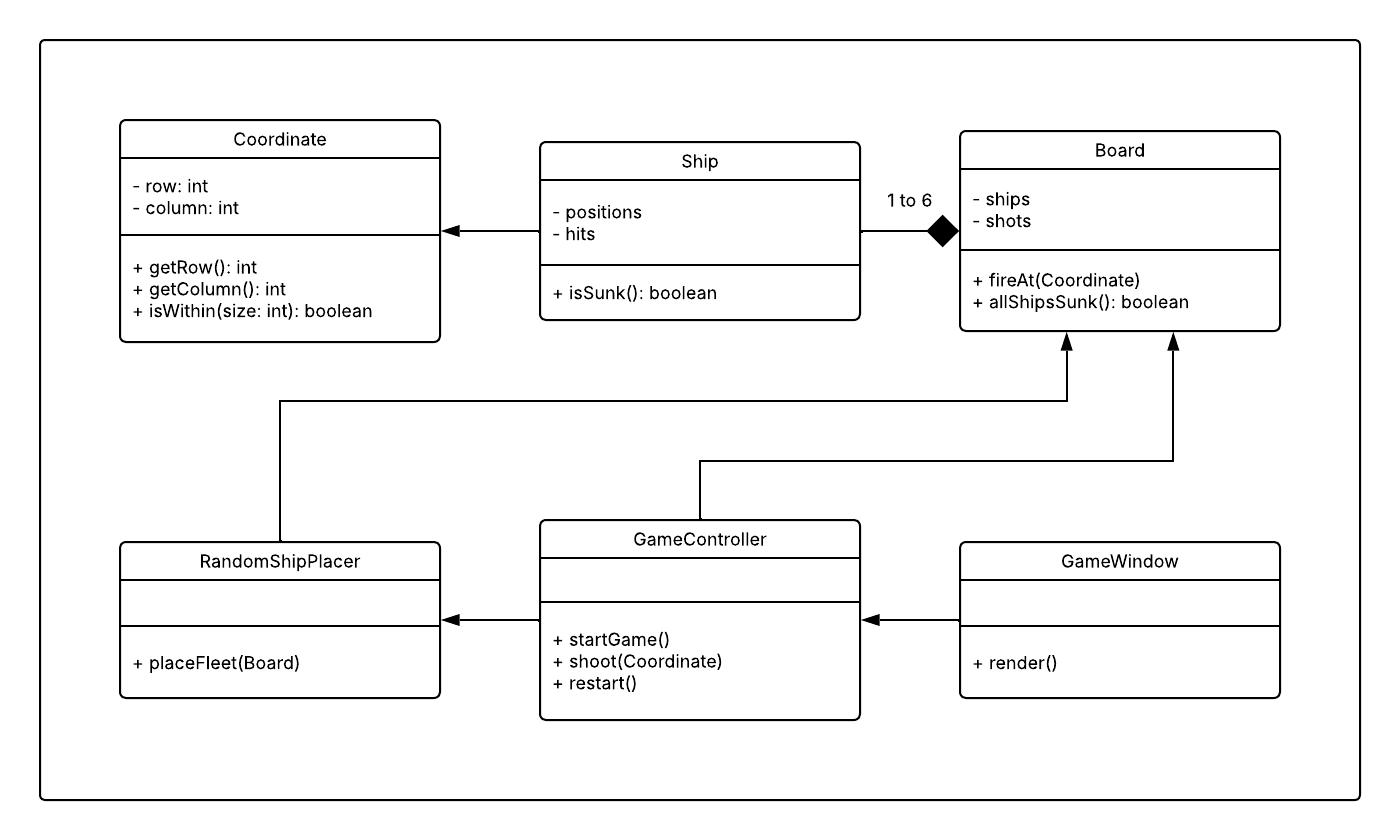
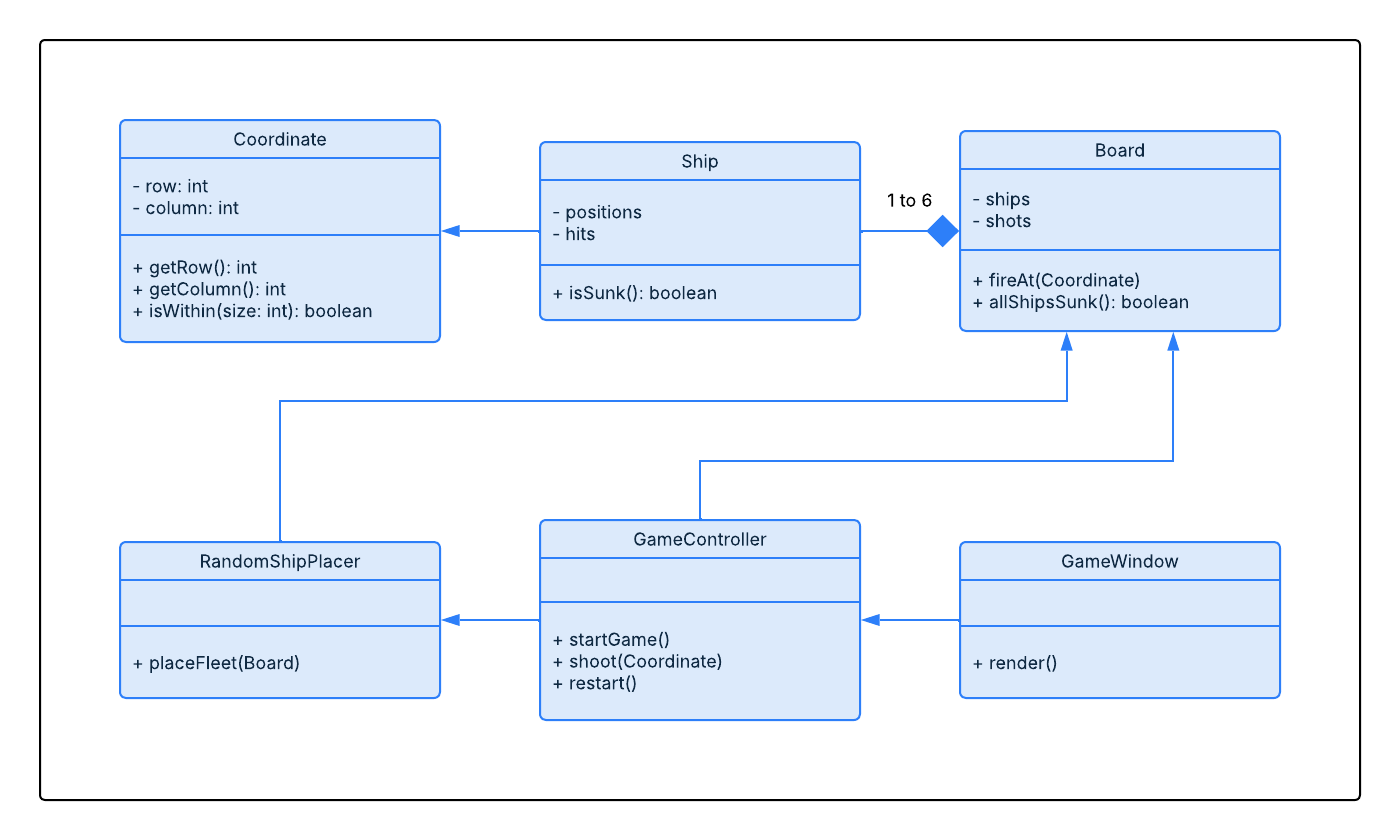
Give the four diagrams one consistent style
The diagrams were drawn in two styles: three in plain black and white and the
sequence diagram in the blue its generator always produces. Black and white is
the more conventional look for UML, but the sequence generator cannot be forced
into it, so the other three were redrawn in the same blue. One consistent set
matters more than which style it is; neither the brief nor the slides mention
colour, while the slides do ask for a consistent document.

Colour now carries meaning rather than decoration. Solid blue marks what this
project wrote. Dashed grey marks what lies outside it: Swing's JFrame in Figure
D, and in Figure B the use case the player never performs. The actor is filled
so it reads as different in kind from a use case. Nothing depends on colour
alone, so every figure still reads printed in black and white.

The earlier black and white exports are kept under docs/diagrams/bw in case the
sequence diagram is ever redrawn by hand, and the README now records which four
figures go into the report and why each is required.

diff --git a/docs/diagrams/README.md b/docs/diagrams/README.md
@@ -1,21 +1,44 @@
 # UML diagrams
 
-Drawn in Lucidchart and exported as PNG for the Word report. The Lucid documents are
+Drawn in Lucidchart and exported as PNG for the Word report. The Lucid documents stay
 editable, so a diagram can be corrected and re-exported without redrawing it.
 
-| File | Report section | Lucid document |
-| --- | --- | --- |
-| `figure-A-initial-class-model.png` | 2.5 | https://lucid.app/lucidchart/6837bcef-e590-4e2d-acd8-8937afd4d4c9/edit |
-| `figure-B-use-case-model.png` | 2.3 | https://lucid.app/lucidchart/bb3d8fd1-b413-41e9-b0d6-096b11323284/edit |
-| `figure-C-sequence-model.png` | 2.4 | https://lucid.app/lucidchart/8172fdcb-e94a-493b-b216-d4faf446aadf/edit |
-| `figure-D-final-class-model.png` | 4.3 | https://lucid.app/lucidchart/563bbac2-cc38-437f-8818-1b7b698a7ca7/edit |
+| File | Report section | What it shows | Lucid document |
+| --- | --- | --- | --- |
+| `figure-A-initial-class-model.png` | 2.5 | The class model as planned, six classes | https://lucid.app/lucidchart/dee6da29-efbc-431a-8f43-249749a5337b/edit |
+| `figure-B-use-case-model.png` | 2.3 | One actor, five use cases, one included | https://lucid.app/lucidchart/b4dc3db4-48a8-4676-85bd-3dfdde75aaff/edit |
+| `figure-C-sequence-model.png` | 2.4 | One shot, with both alternatives | https://lucid.app/lucidchart/8172fdcb-e94a-493b-b216-d4faf446aadf/edit |
+| `figure-D-final-class-model.png` | 4.3 | The implemented model, ten classes | https://lucid.app/lucidchart/16ced3e3-aa11-4f73-b39d-c82c6ce21f1d/edit |
+
+All four figures go into the report, and all four are required: the brief asks for
+use case, sequence and class models in the planning section and a class model of the
+final code in the implementation section.
 
 Figures A, B and C describe the design **as it was planned**, which is what the
-planning section of the report requires. They deliberately do not match the finished
-code; the differences are listed in report section 4.4. Figure D is the final model,
-taken from the code as it now stands.
+planning section requires. They deliberately do not match the finished code; the
+differences are listed in report section 4.4. Figure D is the final model, taken from
+the code as it now stands.
 
-Two earlier documents were created by importing Mermaid source. Lucid stores that as
-a code block rather than as shapes, so it cannot be exported as an image. They were
-replaced by the documents above and can be deleted:
-`142dec6e-4743-4e0a-a070-91e6f7433d45` and `b67e4558-3b55-401c-b990-f2772944e991`.
+## On colour
+
+Neither the brief nor the lecture slides say anything about colour, so it carries no
+marks on its own. What does matter is that the figures look like one set: the Week 5
+slides ask for one font throughout and a caption on every figure, and a report whose
+diagrams are styled differently from each other reads as careless.
+
+All four therefore use the same blue. This was not the first choice. Three of them
+were drawn in plain black and white first, which is the more conventional look for
+UML, but the sequence diagram is generated by a tool that always draws its frames in
+blue and cannot be forced to match. Making the other three blue was the only way to
+get one consistent set, so that is what was done. The black and white versions are
+kept in `bw/` in case the sequence diagram is ever redrawn by hand.
+
+Colour is used to mean something rather than to decorate:
+
+- Solid blue: classes and use cases that this project wrote.
+- Dashed grey: things outside the project. `JFrame` in Figure D is part of Swing, and
+  "Place the fleet at random" in Figure B is a use case the player never performs.
+- Dark blue fill: the actor, so it reads as different in kind from a use case.
+
+Nothing depends on colour alone. Every figure still reads correctly printed in black
+and white, because the dashed outlines and the arrowheads carry the same information.

diff --git a/docs/DEVELOPMENT-LOG.md b/docs/DEVELOPMENT-LOG.md
@@ -111,3 +111,17 @@ recorded in `docs/diagrams/README.md` so they can be deleted.
 
 Report sections 2.3, 2.4, 2.5 and 4.3 now carry the figures and a short commentary
 each, replacing the pending notices.
+
+## 2026-11-18 — Diagrams restyled for consistency
+The four diagrams were drawn in two different styles: three in plain black and white
+and the sequence diagram in the blue its generator always produces. The sequence
+generator cannot be forced into black and white, so the other three were redrawn in
+the same blue instead. One consistent set matters more than which of the two styles
+it is, since the lecture slides ask for a consistent document and neither the brief
+nor the slides mention colour at all.
+
+Colour now carries meaning rather than decoration: solid blue for what this project
+wrote, dashed grey for what is outside it (Swing's JFrame, and the use case the
+player never performs), and a filled actor. Nothing depends on colour alone, so the
+figures still read when printed in black and white. The earlier black and white
+exports are kept in docs/diagrams/bw.
